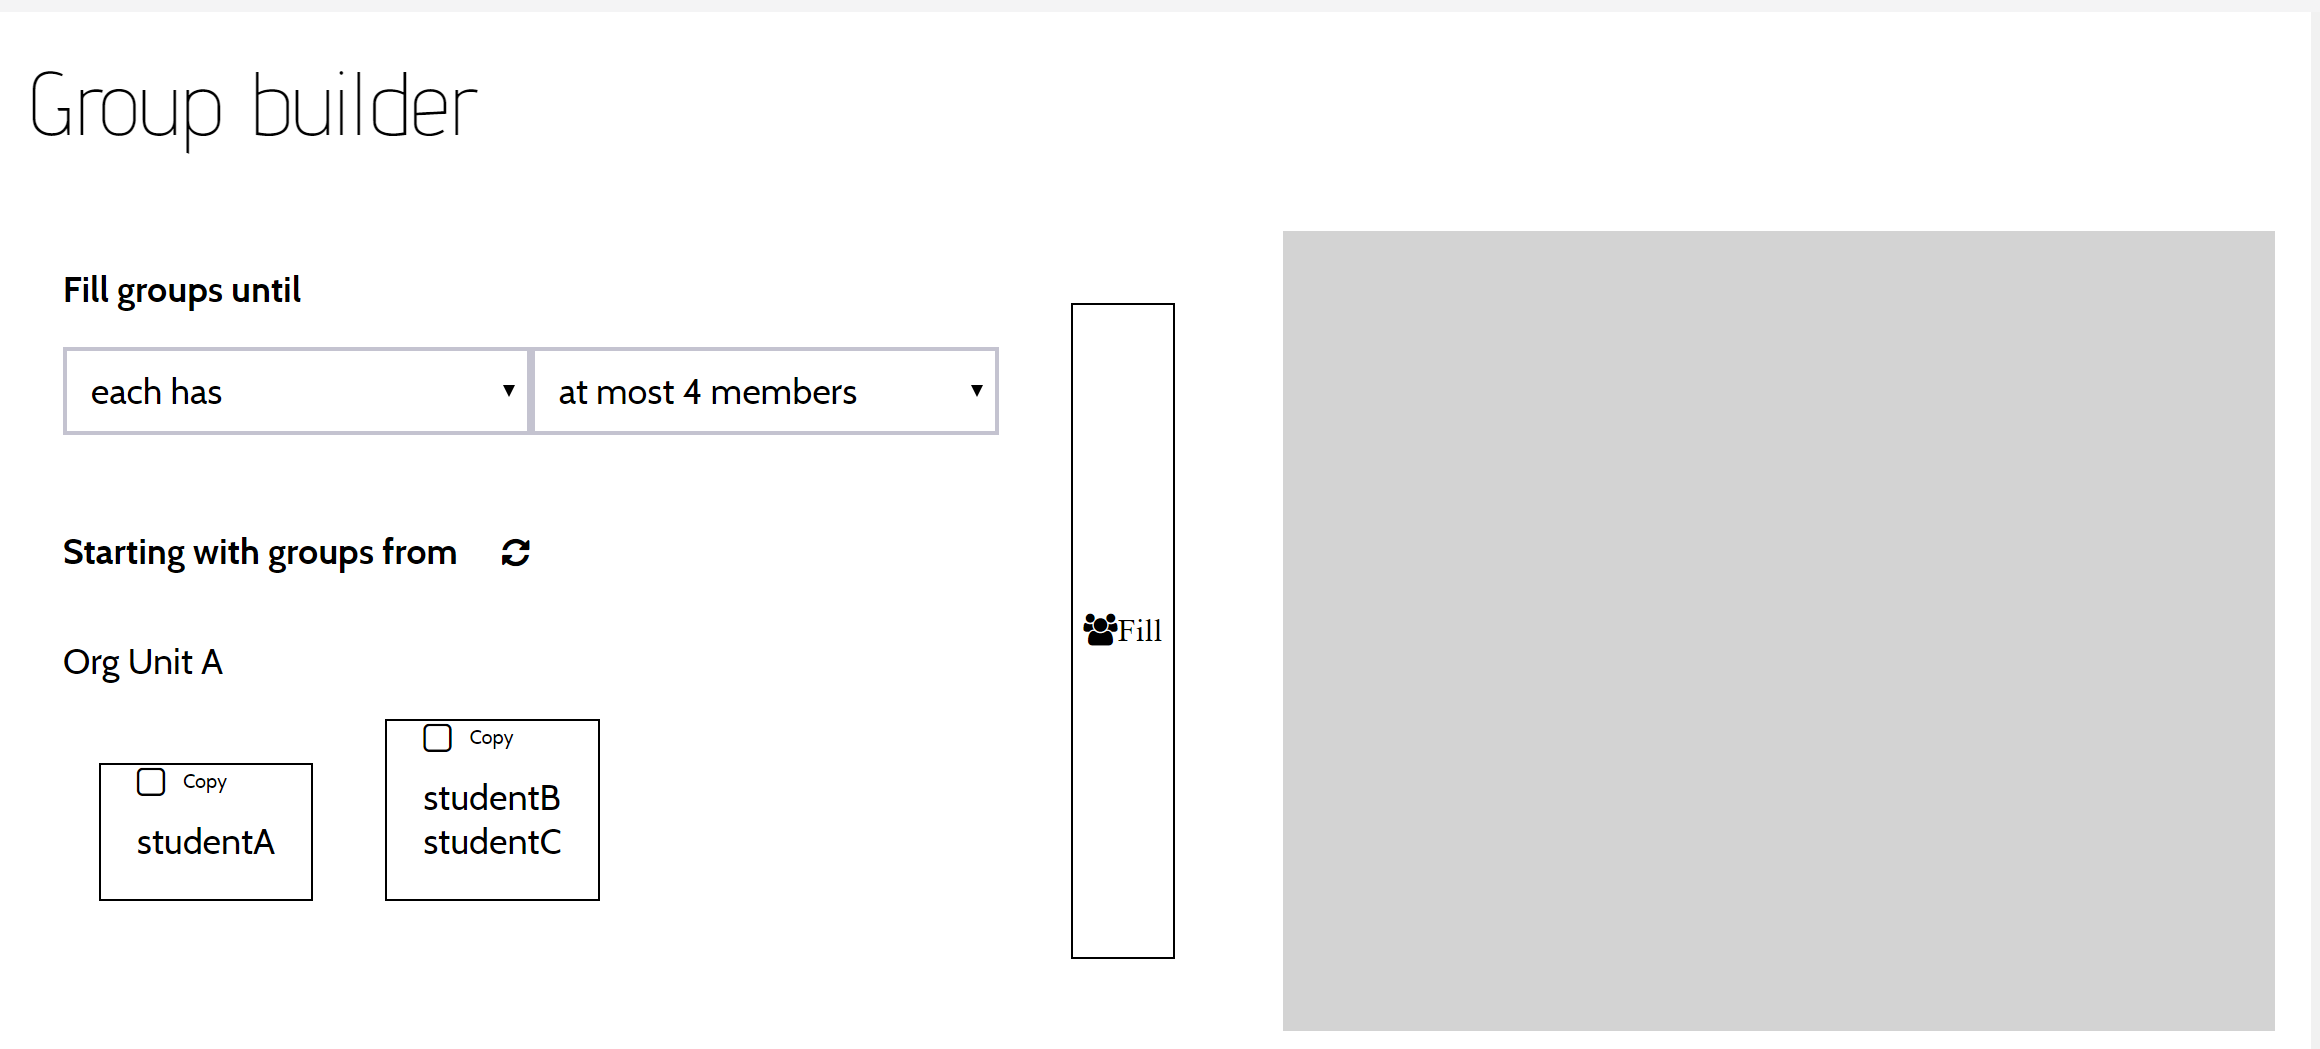
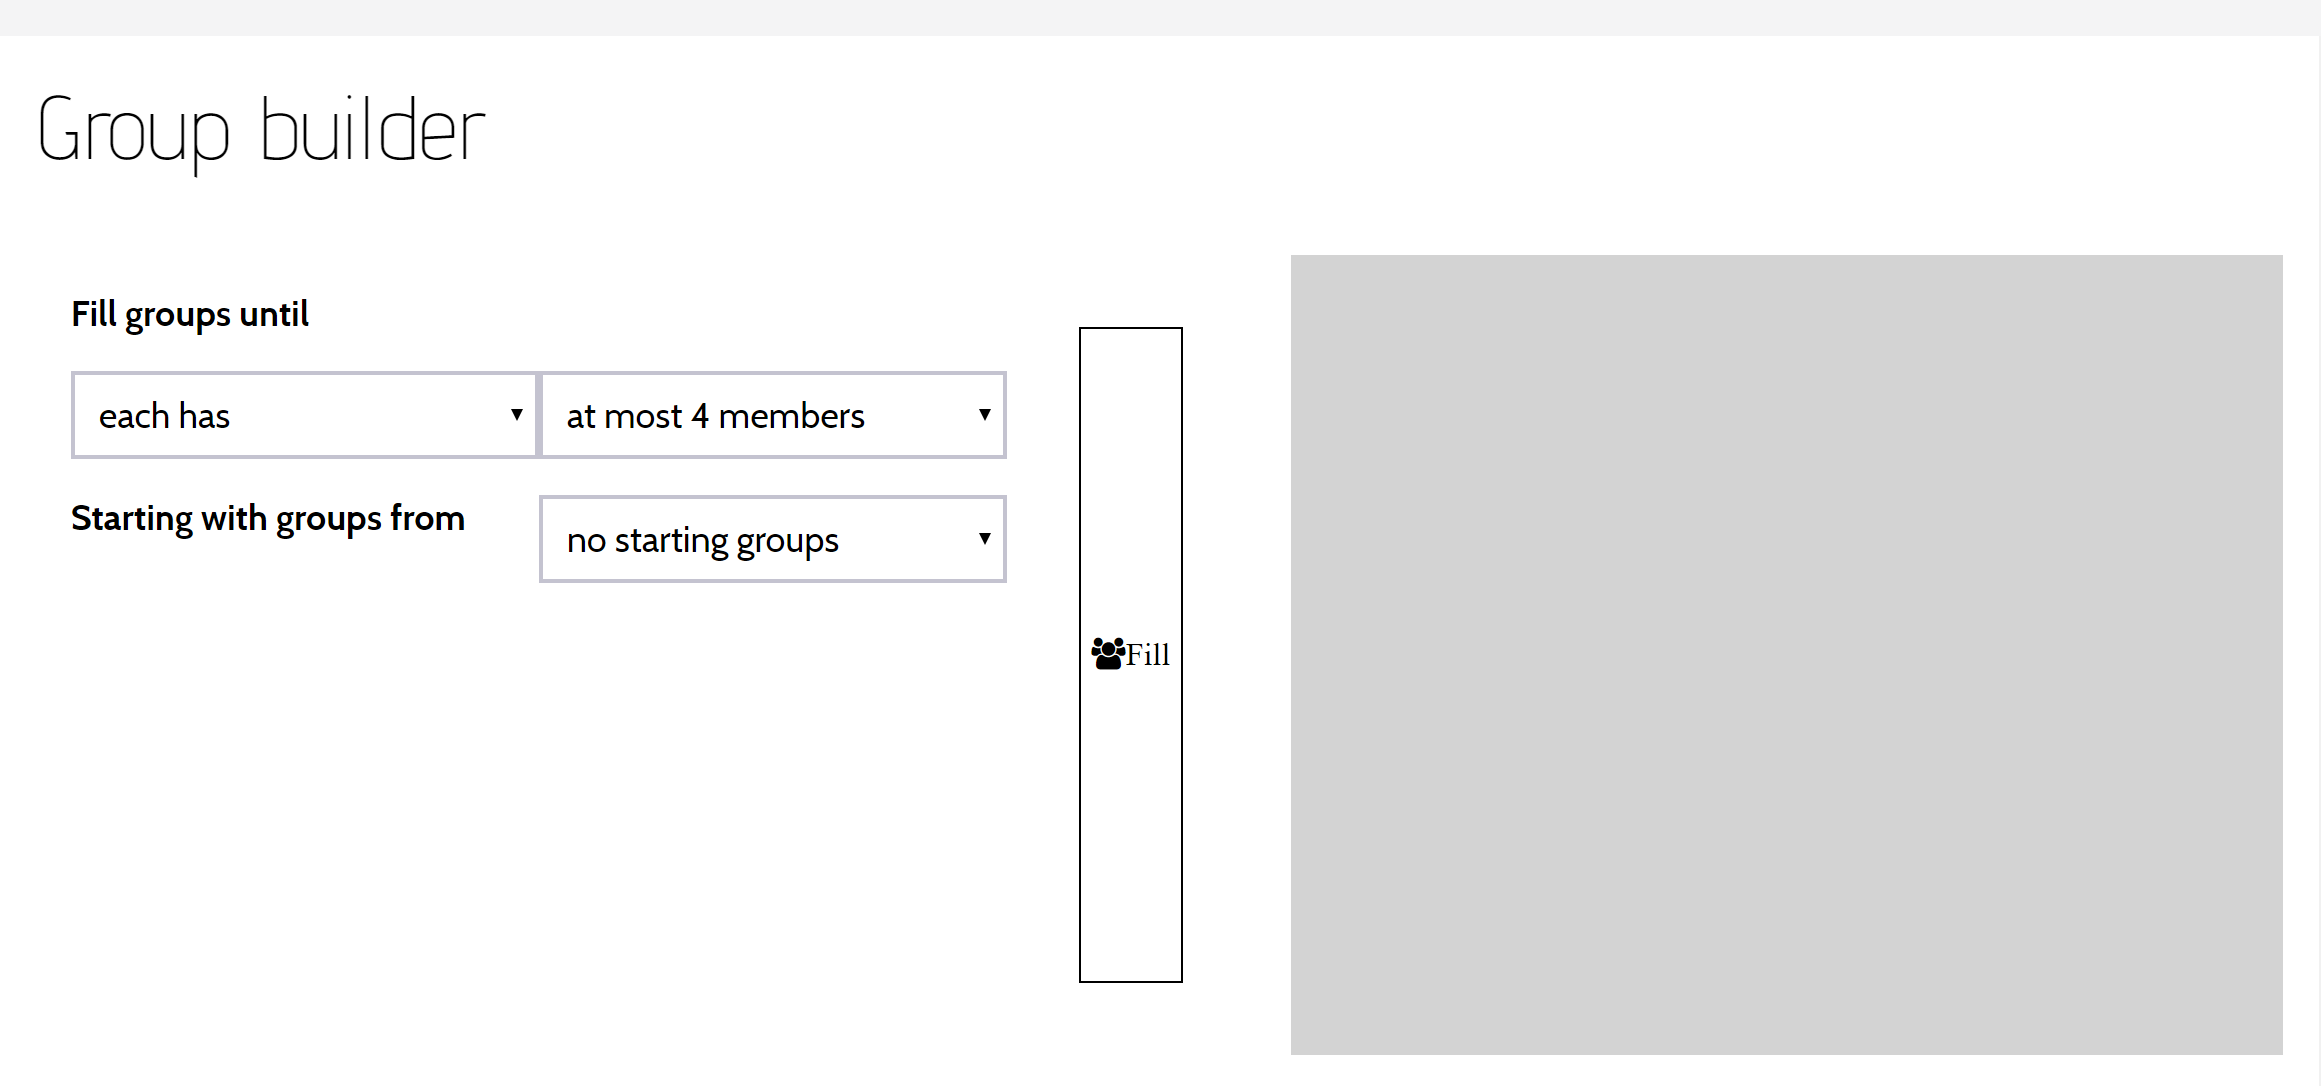
Added capabilities and imagery for groups

diff --git a/docs/guide-groups.md b/docs/guide-groups.md
@@ -7,29 +7,41 @@ title: Groups
 
 A conversation can be split into groups.  This can only be done by the author of the conversation (the teacher).
 
-The group will come into existence on a new page, which will appear in the conversation after the teacher's current page.  Each member of the class will be allocated into one and only one group.  The teacher will not be in any group but will be able to see all the content from all of them.
+The groups will come into existence on a new page, which will appear in the conversation after the teacher's current page.  Each member of the class will be allocated into one and only one group.  The teacher will not be in any group but will be able to see all the content from all of them.
 
 A member of a group can only see content from the other group members and the teacher.
 
 The teacher starts creating a group by pressing the button on the top right of the screen.
 
-<img src="images/guide-groups-start.png" alt="Controls" align="left" height="300"/>
+<img src="images/guide-groups-start.png" alt="The button to add a Group slide" height="100"/>
 
 This will open a configuration dialog.
 
-The left side of this dialog is to capture enough information to enable the group page to be constructed correctly.  The right side of the dialog is to show the state of an existing group page.  The page will not be constructed and no user will be grouped until the teacher presses the "Fill" button in the center.
+<img src="images/guide-groups-configure.png" alt="The configuration dialog" height="300"/>
 
-<img src="images/guide-groups-configure.png" alt="Controls" align="left" height="300"/>
+The left side of this dialog captures enough information to enable the group page to be constructed.  The right side of the dialog shows the state of a group page after construction.  The page will not be constructed and no user will be grouped until the teacher presses the "Fill" button in the center.
 
 A group page will ensure that any student who enters it is placed into a group.
 
 To do this, it needs to be told what to prioritize.  The author may choose a specific number of groups among which to evenly divide the students, or a maximum group size. 
 
-The author may also choose to include groups from centralized systems such as D2L.  If these groups are included, those groupings are guaranteed, even if they conflict with the earlier priorities.  MeTL will only use the prioritization information to group students who do not appear in a group.  As these groups are toggled for inclusion, they appear on the right hand side of the dialog, in the groups space.
+The author may also choose to include groups from centralized systems such as D2L.  If these groups are included, those groupings are guaranteed, even if they conflict with the earlier priorities.  MeTL will only use the prioritization information to group students who do not appear in a group.  
 
-<img src="images/guide-groups-include.png" alt="Controls" align="left" height="300"/>
+<img src="images/guide-groups-configure-external.png" alt="The configuration dialog with groups open" height="300"/>
+
+As these groups are toggled for inclusion, they appear on the right hand side of the dialog, in the groups space.
+
+<img src="images/guide-groups-configure-external-selected.png" alt="The configuration dialog with groups open and a group selected" height="300"/>
 
 Only groups from the teacher's Org Units will be made available for inclusion.
+
+Once the teacher has selected the priority for automatic filling and optionally included existing groups, they press "Fill".  A new page is then constructed, in which groups will always apply.  The teacher is taken to that new page.  The conversation is automatically set to "Students must follow" and the students are also automatically taken to the page.  As they arrive, they are allocated unless they already appeared in an external group.
+
+The teacher may view the existing groups by reopening the dialog using the same button.  At this stage the prioritization strategy cannot be altered.  Groups may be rearranged by dragging and dropping the student names between them.
+
+<img src="images/guide-groups-running.png" alt="The configuration dialog with groups open and a group selected" height="300"/>
+
+A student's content on this page will only be visible to the other members of the group.  The teacher can see content from all groups at once.  If the teacher wishes to filter out content to focus on a particular group's activity, they should use the Content Filter under Learning which has been created for the group.  If the teacher wishes to write in a space which is only visible to a group, they should use the Isolate functionality of the group listing in the Plugins bar.
 
 
 

diff --git a/docs/guide.md b/docs/guide.md
@@ -5,7 +5,7 @@ title: User Guide
 
 This is information for teachers, teaching assistants, student champions and all other MeTL users.
 
-It will help you ...
+It will help you navigate the user interface of MeTL as well as piece together the best ways to support your teaching activities.
 
 ## Content
 
@@ -18,3 +18,4 @@ It will help you ...
   - [Copy and Paste](guide-copypaste.html) 
   - [Sharing](guide-sharing.html)
   - [Word Cloud](guide-word-cloud.html)
+- [Groups](guide-groups.html)
